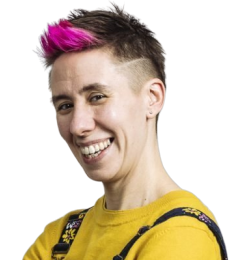
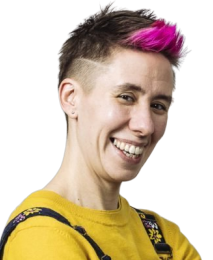
blurb added

diff --git a/src/components/namebox.js b/src/components/namebox.js
@@ -7,27 +7,35 @@ import peter from "../images/peter-no-bg.png"
 
 const BoxesHolder = styled.section`
   display: flex;
-  justify-content: space-around;
-  margin-bottom: 5rem;
+  justify-content: center;
 `
 
 const BoxWrapper = styled.article`
   background: #f72f97;
   color: #fffafd;
+  margin: 4vh 1.5vw 10vh;
   padding: 2%;
   position: relative;
+  min-width: 40%;
 `
 
 const Name = styled.h1`
   font-size: 5vw;
   font-weight: 100;
   margin-bottom: 5%;
-  max-width: 60%;
+`
+
+const RightName = styled(Name)`
+  text-align: right;
 `
 
 const AboutWrapper = styled.div`
   align-items: center;
   display: flex;
+`
+
+const RightAboutWrapper = styled(AboutWrapper)`
+  justify-content: flex-end;
 `
 
 const AboutMe = styled.p`
@@ -50,18 +58,30 @@ const Headshot = styled.img`
   max-width: 50%;
 `
 
+const LeftHeadshot = styled(Headshot)`
+  left: 0;
+`
+
 const NameBoxes = () => (
   <BoxesHolder>
     <BoxWrapper>
-      <Name>Suze Cooper</Name>
-      <AboutWrapper>
+      <RightName>
+        Suze
+        <br />
+        Cooper
+      </RightName>
+      <RightAboutWrapper>
         <AboutChevron src={chevron} alt="chevron" />
         <AboutMe>ABOUT ME</AboutMe>
-      </AboutWrapper>
-      <Headshot src={suze} alt="suze headshot" />
+      </RightAboutWrapper>
+      <LeftHeadshot src={suze} alt="suze headshot" />
     </BoxWrapper>
     <BoxWrapper>
-      <Name>Peter Stewart</Name>
+      <Name>
+        Peter
+        <br />
+        Stewart
+      </Name>
       <AboutWrapper>
         <AboutChevron src={chevron} alt="chevron" />
         <AboutMe>ABOUT ME</AboutMe>

diff --git a/src/components/blurb.js b/src/components/blurb.js
@@ -1,0 +1,21 @@
+import React from "react"
+import styled from "styled-components"
+
+const BlurbHolder = styled.section`
+  color: #fffafd;
+  font-size: 36px;
+  font-weight: 100;
+  margin: 0 7vw 10vh;
+`
+
+const Blurb = () => (
+  <BlurbHolder>
+    What we are and what we do Lorem ipsum dolor amet banjo ugh echo park
+    readymade tousled vaporware flexitarian pitchfork keffiyeh lyft Lorem ipsum
+    dolor amet food truck williamsburg meditation twee mumblecore affogato
+    intelligentsia chambray portland retro gochujang. Chicharrones meggings
+    tofu, art party
+  </BlurbHolder>
+)
+
+export default Blurb

diff --git a/src/pages/index.js b/src/pages/index.js
@@ -4,11 +4,13 @@ import Layout from "../components/layout"
 import SEO from "../components/seo"
 import SignUpForm from "../components/signupform"
 import NameBoxes from "../components/namebox"
+import Blurb from "../components/blurb"
 
 const IndexPage = () => (
   <Layout>
     <SEO title="Home" />
     <NameBoxes />
+    <Blurb />
     <SignUpForm />
   </Layout>
 )
